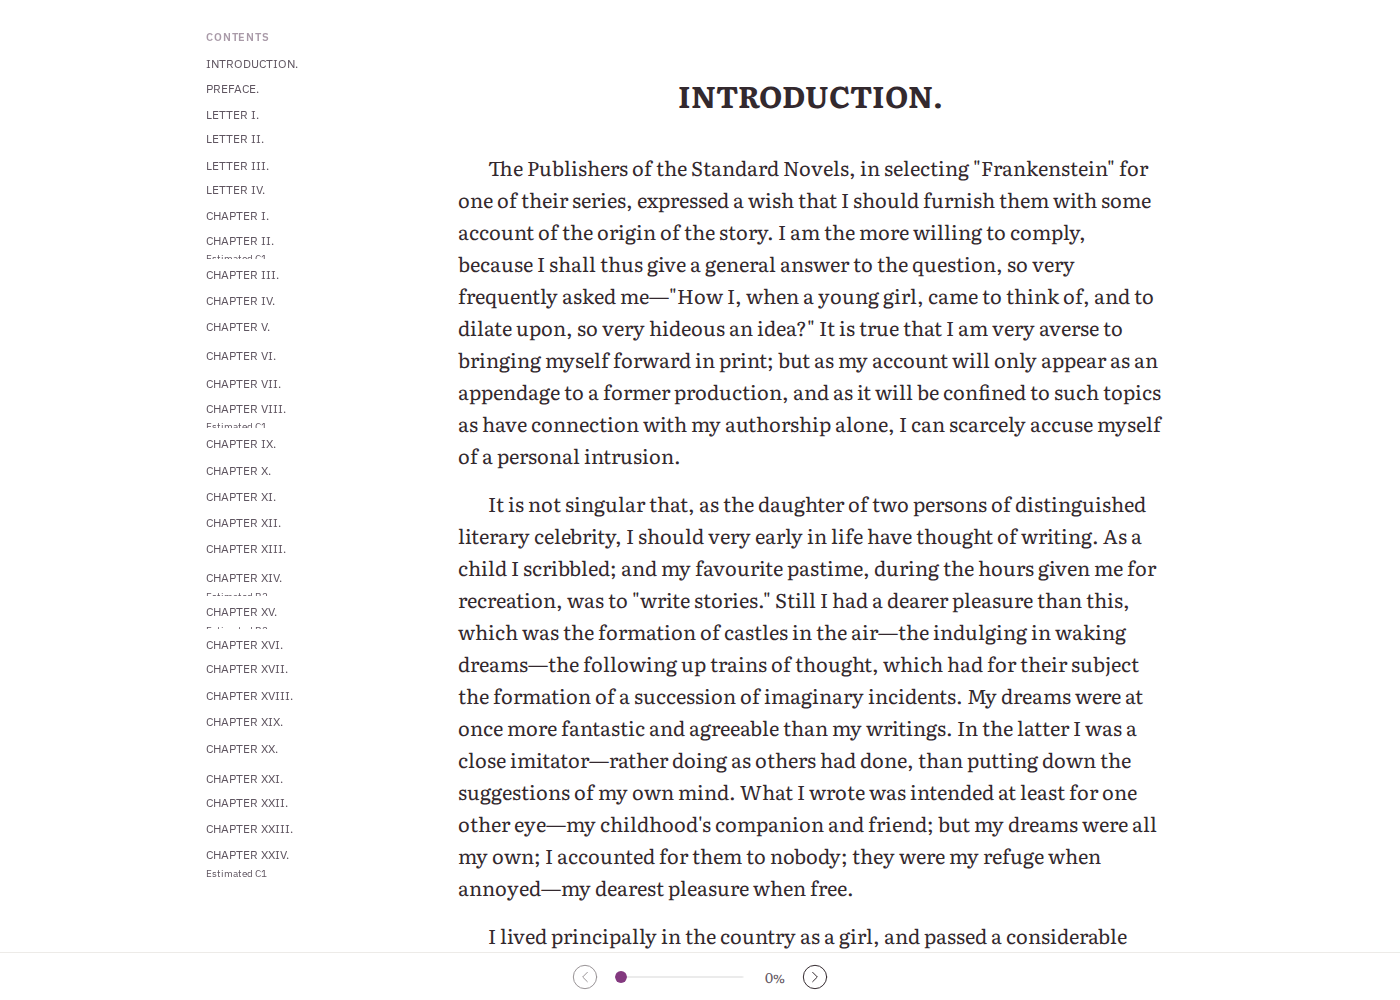
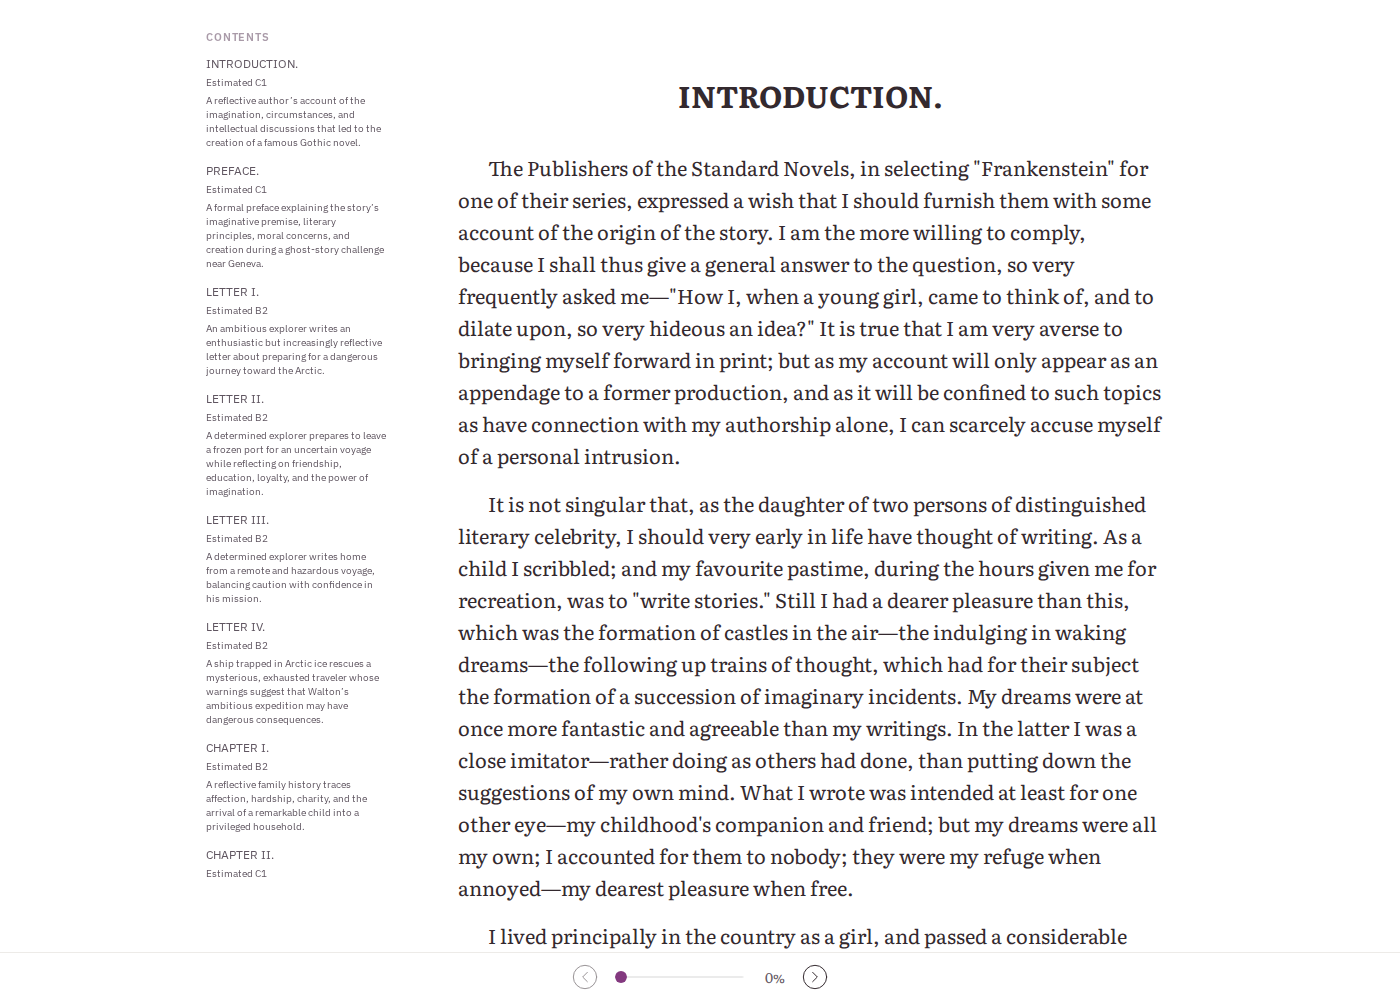
Update morning evidence after full-book contents fix

Changed region(s): [[0.1536, 0.062, 0.2764, 0.837], [0.2457, 0.248, 0.2764, 0.279]]

diff --git a/docs/MORNING_BRIEF.md b/docs/MORNING_BRIEF.md
@@ -72,7 +72,10 @@ an unsaved test staff principal—not your account or browser session. Screensho
 [Ukrainian sentence preview](evidence/reader-20260916/sentences-uk-11.png).
 This verifies rendering and interactions, not staff login or publication.
 [Live Angular original](evidence/reader-20260916/angular-live-original.png) uses
-the actual public backend.
+the actual public backend. Its 30-entry contents list now scrolls instead of
+clipping chapter estimates/descriptions; a
+[full chapter-list regression](../../almonium-fe/docs/evidence/reader-20260916/chapter-navigation.png)
+also checks this.
 
 Real sentence highlights were clicked in chapters 1, 10, 11, 20 and 30 for both
 pairs. The samples preserve simpler English alongside more literary original/UK
@@ -93,7 +96,7 @@ test server is intentionally left running; the existing Angular dev server was
 left alone. No paid AI calls were needed.
 
 Checks: processor 321 tests plus Ruff/format/migrations/system checks; Angular
-lint, 267 tests, production build and six browser cases; mobile TypeScript,
+lint, 267 tests, production build and seven browser cases; mobile TypeScript,
 96 tests, ESLint (one generated-file warning) and Android export. The mobile
 `npm run check` executable shim fails in this checkout; equivalent underlying
 checks ran via Node. No native-device acceptance is claimed.
@@ -102,7 +105,8 @@ Implementation commits:
 
 - Processor `c716f0f`: source-publication prerequisite, clearer staff comparison.
 - Angular `96f050a`: companion provenance/filter; `9c63311`: screenshot capture;
-  `4d999a1`: mutually exclusive menus; `fa55299`: current integration notes.
+  `4d999a1`: mutually exclusive menus; `fa55299`: current integration notes;
+  `fa133b7`: unclipped full-book chapter navigation.
 - Mobile `4772728`: companion provenance/filter; `4b0c3e2`: chapter navigation,
   optional estimates/descriptions and truthful reading-mode labels.
 

diff --git a/docs/PRODUCT_READER_DELIVERY.md b/docs/PRODUCT_READER_DELIVERY.md
@@ -17,7 +17,9 @@ were approved and no edition was published during this work.
   editorial fidelity.
 - Both clients offer indirect translations by default with clear lineage and
   an explicit switch to hide them. Angular chapter/companion menus no longer
-  overlap. Six production-bundle browser cases cover both pairs in all modes.
+  overlap. Six production-bundle browser cases cover both pairs in all modes;
+  a seventh checks that 30 enriched chapter entries scroll without being clipped.
+  The real original's desktop contents list was checked after this fix too.
 - Mobile now has local chapter navigation plus optional current CEFR/descriptions
   from the product chapter endpoint. A missing enrichment request never blocks
   reading or navigation. Live original: all 30 headings and Chapter V enrichment
